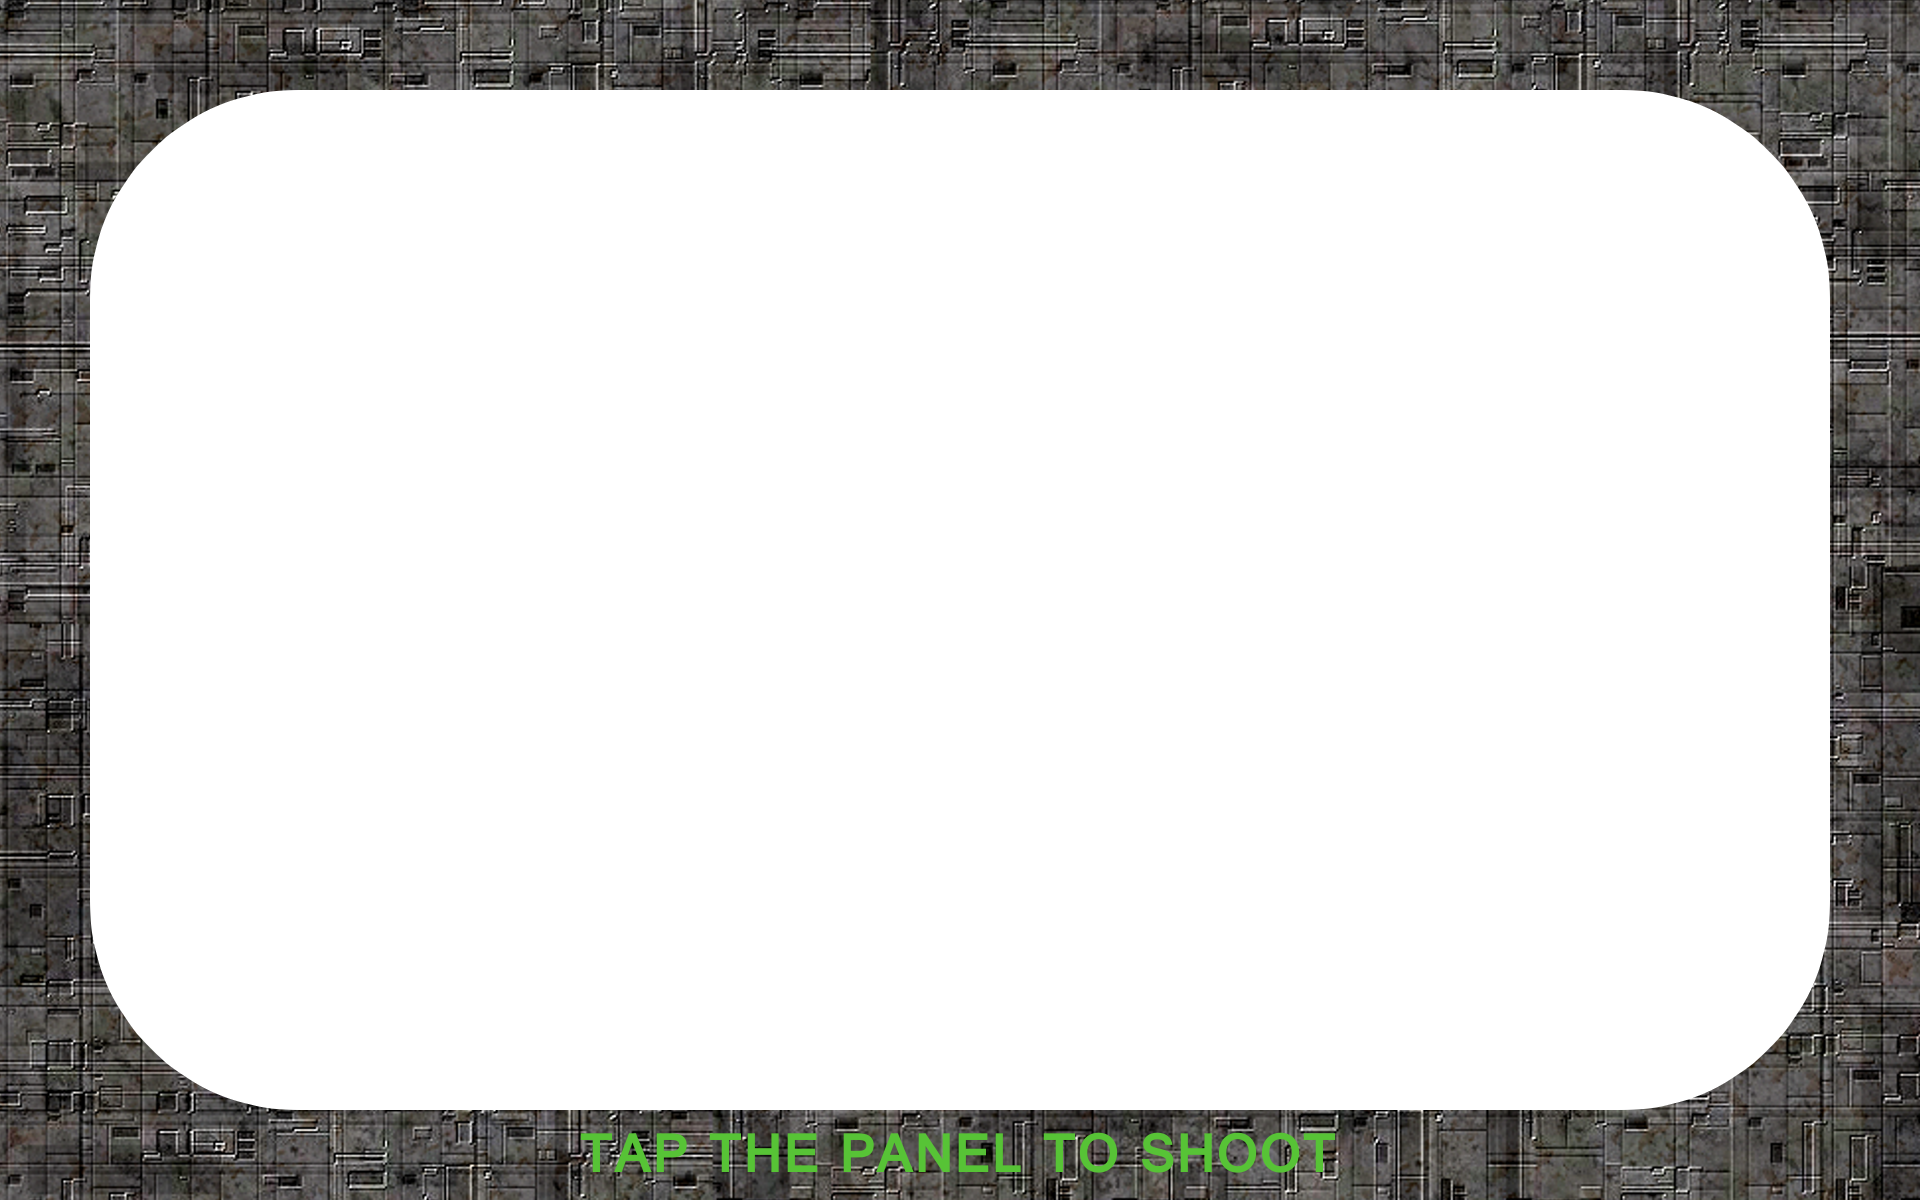
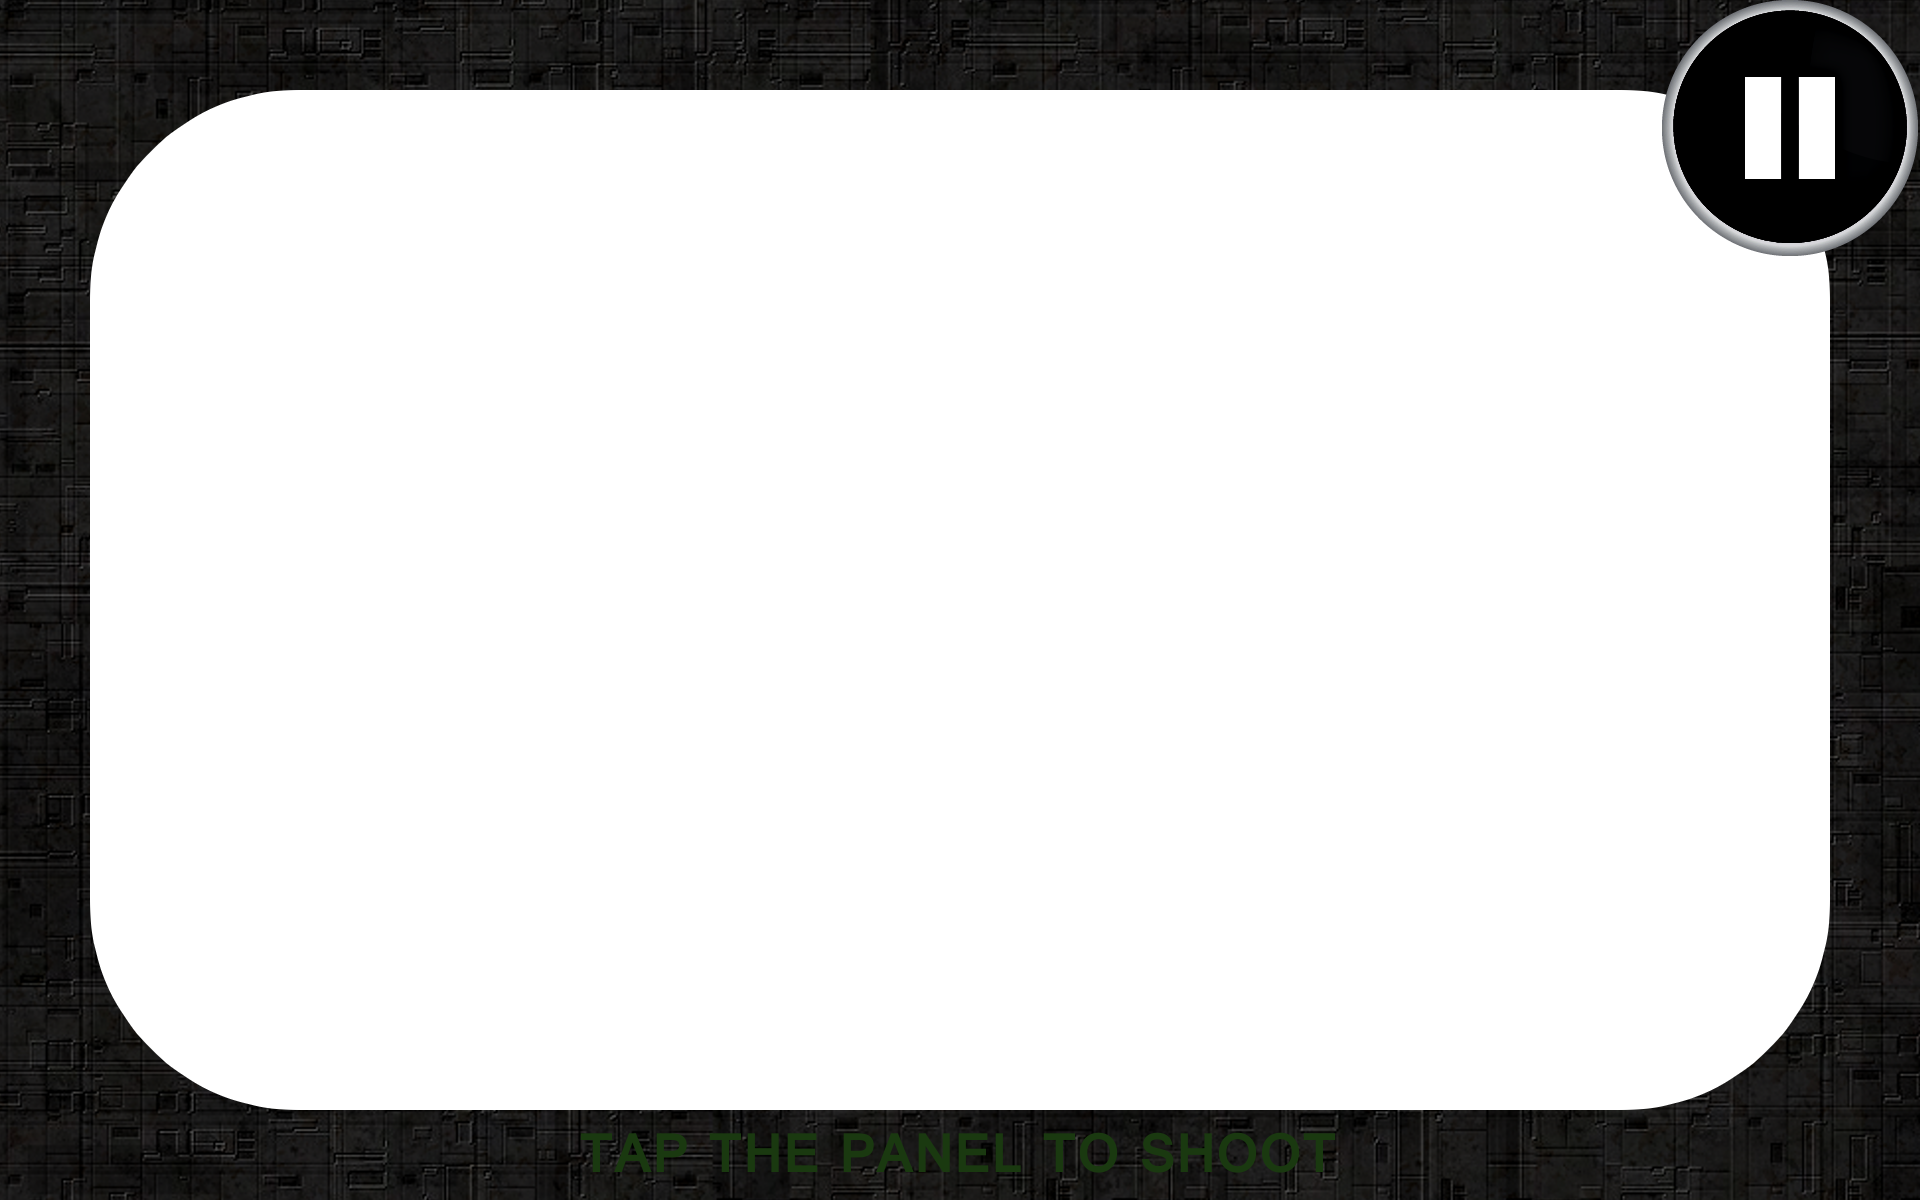
Pause, handling, Start-Restart

Changed region(s): [[0.0, 0.0, 1.0, 1.0]]

diff --git a/UFOSurvival_Eclipse/jni/main.cpp b/UFOSurvival_Eclipse/jni/main.cpp
@@ -9,9 +9,13 @@
 #include "log.h"
 
 #define SHOOT_BORDER 0.1f
+#define PAUSE_PIC_SIZE 0.175f
 
 Game     *g_game = 0;
 Graphics *g_graphics = 0;
+
+Point g_flyingToVec;
+bool g_flyingTo = false;
 
 bool g_restart = true;
 
@@ -73,25 +77,25 @@ static int engine_init_display(struct engine* engine)
   engine->height = h;
 
   glShadeModel(GL_SMOOTH);
-  glViewport(0, 0, engine->width, engine->height);
 
   return 0;
 }
 
 void restartGame(float w, float h)
 {
-  bool newHero = false;
-  if(g_graphics)
-  {
-    delete g_graphics;
-    newHero = true; // game was init previously
-  }
+//  if(g_graphics)
+//    delete g_graphics;
 
-  g_game->Restart(newHero);
-  g_graphics = new Graphics();
+// re-init of Graphics takes time on some old devices, let's reuse
+
+  if (!g_graphics)
+    g_graphics = new Graphics();
+
   g_game->SetRatio((GLfloat)w / h);
   g_game->InitObjects();
   g_graphics->Init(g_game, Point(w, h));
+
+  g_game->Start();
 
   g_restart = false;
 }
@@ -106,8 +110,11 @@ static void engine_draw_frame(struct engine* engine)
 
   if(g_restart)
     restartGame(engine->width, engine->height);
-  else
-    g_game->Update();
+
+  if (g_flyingTo)
+    g_game->EngineFly(g_flyingToVec);
+
+  g_game->Update();
 
   if(g_graphics->Frame())
     eglSwapBuffers(engine->display, engine->surface);
@@ -131,6 +138,18 @@ static void engine_term_display(struct engine* engine)
   engine->surface = EGL_NO_SURFACE;
 }
 
+void stopAcceleration()
+{
+    g_game->EngineStop();
+    g_flyingTo = false;
+}
+
+void doAcceleration(Point at)
+{
+	g_flyingToVec = at;
+	g_flyingTo = true;
+}
+
 static int32_t engine_handle_input(struct android_app* app, AInputEvent* event)
 {
   struct engine* engine = (struct engine*)app->userData;
@@ -141,8 +160,10 @@ static int32_t engine_handle_input(struct android_app* app, AInputEvent* event)
       if(AMotionEvent_getAction(event) == AMOTION_EVENT_ACTION_DOWN)
       {
         if(g_game->IsGameOver())
+        {
+          stopAcceleration();
           g_restart = true;
-
+        }
         else
         {
           float whereX =       AMotionEvent_getX(event, 0) / engine->width;
@@ -150,18 +171,28 @@ static int32_t engine_handle_input(struct android_app* app, AInputEvent* event)
 
           Point at(whereX, whereY);
 
-          if(whereX >       SHOOT_BORDER &&
-             whereX < 1.f - SHOOT_BORDER &&
-             whereY < 1.f - SHOOT_BORDER &&
-             whereY >       SHOOT_BORDER)
-
-            g_game->EngineFly(at);
+          if (whereX > 1.f - PAUSE_PIC_SIZE &&
+              whereY > 1.f - PAUSE_PIC_SIZE)
+          {
+        	  stopAcceleration();
+        	  g_game->Pause();
+          }
+          else if(whereX >       SHOOT_BORDER &&
+                  whereX < 1.f - SHOOT_BORDER &&
+                  whereY < 1.f - SHOOT_BORDER &&
+                  whereY >       SHOOT_BORDER)
+          {
+        	  doAcceleration(at);
+          }
           else
+          {
             g_game->Shoot(at);
+            stopAcceleration();
+          }
         }
       }
       else if(AMotionEvent_getAction(event) == AMOTION_EVENT_ACTION_UP)
-        g_game->EngineStop();
+        stopAcceleration();
     }
     return 1;
   }

diff --git a/src/Game.cpp b/src/Game.cpp
@@ -31,7 +31,8 @@ Game::Game()
   _blackObject     (newID(), TEXTURE_BLACK),
   _panelObject     (newID(), TEXTURE_PANEL),
   _gameOverObject  (newID(), (rnd0xi(2) == 0) ? TEXTURE_GAMEOVER1 : TEXTURE_GAMEOVER2),
-  _nextID(0)
+  _nextID(0), 
+  _paused(false)
 {
 }
 
@@ -78,7 +79,7 @@ void Game::InitObjects()
     fixObjectXSize(_panelObject     );
   }
 
-  Restart();
+  Start();
 }
 
 void checkDestroyedObjects(ObjectList& objects)
@@ -133,6 +134,9 @@ void Game::crackAsteroid(ObjectList& added, GameObject& asteroid, GameObject& bu
 
 void Game::Update()
 {
+  if (_paused)
+    return;
+
   clock_t updateStartTime = clock();
   float elapsed = dt(updateStartTime, _timeLastUpdate);
   if(elapsed >= DELAY && !IsGameOver())
@@ -214,16 +218,29 @@ IDType Game::newID()
   return _nextID++;
 }
 
-void Game::Restart(bool newHero)
+void Game::Start()
 {
   _asteroids.clear();
   _bullets  .clear();
 
-  if (newHero)
+  if (IsGameOver()) //restart
     _heroObject = GameObject(newID(), TEXTURE_HERO);
   
   _heroObject.SetPosition(CENTER);
   _heroObject.SetSize    (HERO_SIZE);
   
   fixObjectXSize(_heroObject);
+}
+
+void Game::Pause()
+{
+  Pause(!_paused);
+}
+
+void Game::Pause(bool pause)
+{
+  if (!pause)
+    _timeLastUpdate = clock();
+
+  _paused = pause;
 }

diff --git a/UFOSurvival_MSVS/UFOSurvival/main.cpp b/UFOSurvival_MSVS/UFOSurvival/main.cpp
@@ -9,6 +9,8 @@ Graphics g_graphics;
 
 bool g_flying = false;
 
+#define SPACEBAR_KEY 32
+
 void display()
 {
   if (g_graphics.Frame())
@@ -27,7 +29,7 @@ void mouseClick(int button, int state, int x, int y)
 
   if (g_game.IsGameOver())
   {
-    g_game.Restart(true);
+    g_game.Start();
     g_graphics = Graphics();
     glewInit();
     g_graphics.Init(&g_game, Point(SCREEN_W, SCREEN_H));
@@ -64,6 +66,12 @@ void mouse(int x, int y)
   }
 }
 
+void keyDown(unsigned char key, int x, int y)
+{
+  if (key == SPACEBAR_KEY)
+    g_game.Pause();
+}
+
 int main(int argc, char** argv)
 {
   glutInit(&argc, argv);
@@ -81,6 +89,7 @@ int main(int argc, char** argv)
   glutIdleFunc(idle);
   glutMouseFunc(mouseClick);
   glutMotionFunc(mouse);
+  glutKeyboardFunc(keyDown);
 
   glutMainLoop();
 

diff --git a/src/include/Game.h b/src/include/Game.h
@@ -17,7 +17,9 @@ public:
 
   void SetRatio(float r);
   void InitObjects();
-  void Restart(bool newHero = false);
+  void Start();
+  void Pause(bool pause);
+  void Pause(); // toggle
 
   void EngineFly(Point pos);
   void EngineStop();
@@ -54,6 +56,7 @@ protected:
   GameObject _heroObject, _backgroundObject, _gameOverObject, _blackObject, _panelObject;
   
   float _ratio;
+  bool _paused;
 
   clock_t _timeLastUpdate;
 };
